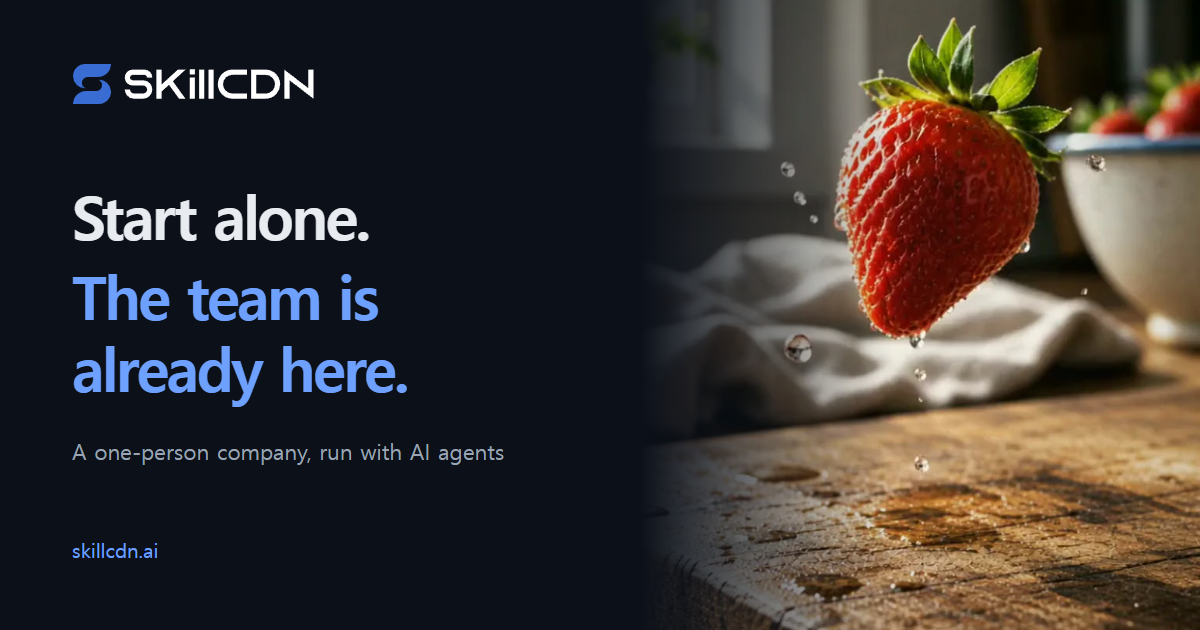
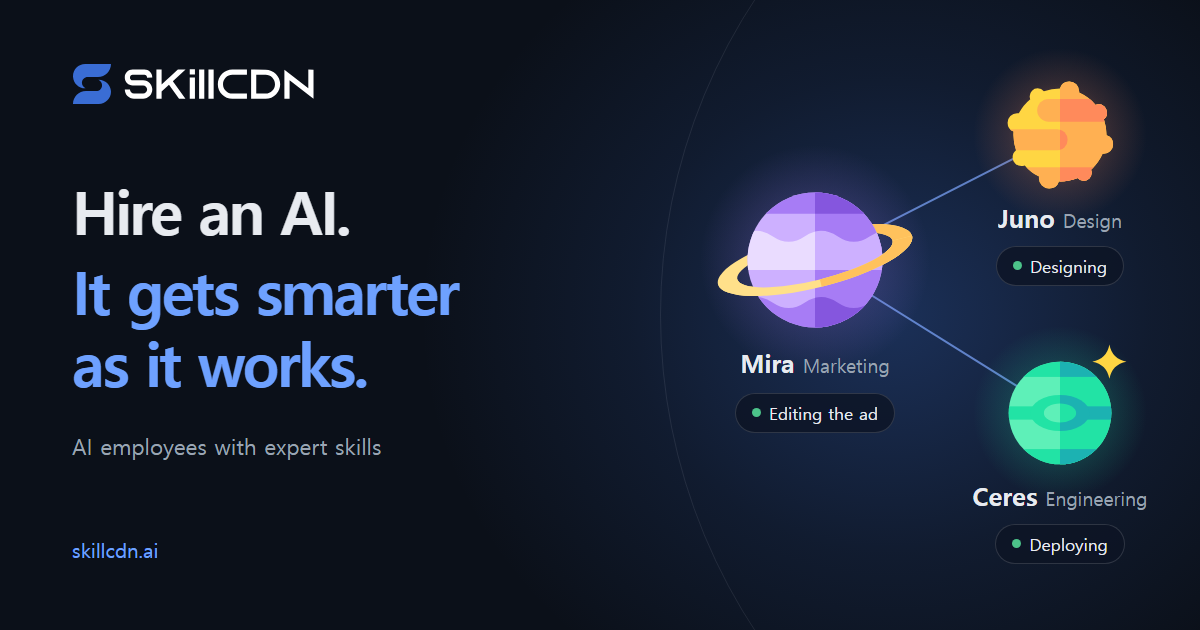
feat(web): show the AI employees on the social-preview card
The social-preview images showed the first showcase entry's poster, a
result that says nothing of what the front page now promises. The card
shows the words of the first screen beside the three AI employees of
its scene, each with its face, its name, its trade and what it is
doing, and both images are taken again from /dev/og.

diff --git a/apps/web/src/pages/og-card.module.css b/apps/web/src/pages/og-card.module.css
@@ -11,19 +11,154 @@
   background: var(--color-bg);
   color: var(--color-text);
 }
-/* The picture keeps to the right of the words, in either language, and fades in from the
-   background at its left edge, so that there is no seam between them and nothing shows through
-   the words. */
-.art {
+
+/* The team keeps to the right of the words, in either language: the three of the scene in the
+   room they work in, one light behind them all and a light of its own tone behind each. */
+.team {
   position: absolute;
   z-index: -1;
   inset: 0 0 0 auto;
   width: 560px;
   height: 630px;
-  object-fit: cover;
-  object-position: 30% center;
-  mask-image: linear-gradient(90deg, transparent, black 45%);
 }
+
+.team::before {
+  content: "";
+  position: absolute;
+  inset: -120px -160px -120px -220px;
+  background: radial-gradient(
+    closest-side,
+    color-mix(in srgb, var(--color-accent-solid) 34%, transparent),
+    color-mix(in srgb, var(--color-accent-solid) 12%, transparent) 55%,
+    transparent
+  );
+}
+
+/* A faint orbit through the room, as the scene has them. */
+.team::after {
+  content: "";
+  position: absolute;
+  top: -260px;
+  left: 20px;
+  width: 1150px;
+  height: 1150px;
+  border: 1px solid color-mix(in srgb, var(--color-text) 9%, transparent);
+  border-radius: 50%;
+}
+
+.links {
+  position: absolute;
+  inset: 0;
+  width: 560px;
+  height: 630px;
+  fill: none;
+  stroke: color-mix(in srgb, var(--agents-ocean-2) 70%, transparent);
+  stroke-width: 2;
+  stroke-linecap: round;
+}
+
+/* One of the three: its planet, its name and trade, and what it is doing. Placed by the middle
+   of its planet. */
+.agent {
+  position: absolute;
+  isolation: isolate;
+  display: grid;
+  justify-items: center;
+  translate: -50% 0;
+  white-space: nowrap;
+}
+
+.agent-0 {
+  --size: 250px;
+  top: 135px;
+  left: 175px;
+}
+
+.agent-1 {
+  --size: 190px;
+  top: 40px;
+  left: 420px;
+}
+
+.agent-2 {
+  --size: 190px;
+  top: 318px;
+  left: 420px;
+}
+
+.halo-violet {
+  --halo: var(--agents-violet-2);
+}
+
+.halo-sunset {
+  --halo: var(--agents-sunset-2);
+}
+
+.halo-mint {
+  --halo: var(--agents-mint-1);
+}
+
+.planet {
+  position: relative;
+  display: block;
+  width: var(--size);
+  height: var(--size);
+}
+
+/* The light of its own tone, behind the planet and behind its words. */
+.planet::before {
+  content: "";
+  position: absolute;
+  z-index: -1;
+  inset: 4%;
+  border-radius: 50%;
+  background: radial-gradient(
+    closest-side,
+    color-mix(in srgb, var(--halo) 46%, transparent),
+    color-mix(in srgb, var(--halo) 14%, transparent) 60%,
+    transparent
+  );
+}
+
+.planet > svg {
+  position: relative;
+}
+
+.who {
+  display: flex;
+  align-items: baseline;
+  gap: 8px;
+  /* The drawing leaves room around the planet for a ring; the words come up into it. */
+  margin-top: calc(var(--size) * -0.17);
+  font-size: 25px;
+  font-weight: 700;
+}
+
+.who span {
+  color: var(--color-text-muted);
+  font-size: 19px;
+  font-weight: 400;
+}
+
+.doing {
+  display: flex;
+  align-items: center;
+  gap: 8px;
+  margin-top: 8px;
+  padding: 5px 16px 6px;
+  border: 1px solid var(--agents-pill-edge);
+  border-radius: 999px;
+  background: var(--agents-pill);
+  font-size: 17px;
+}
+
+.doing i {
+  width: 9px;
+  height: 9px;
+  border-radius: 50%;
+  background: var(--color-success);
+}
+
 /* The lockup; the wordmark in the brand's white, the symbol in its own blue. It keeps its own
    width in the column, where a flex item would otherwise be stretched to the card's. */
 .brand {
@@ -33,26 +168,32 @@
   height: 40px;
   color: var(--color-wordmark);
 }
+
+/* The title and the line under it stand in the middle of the room between the lockup and the
+   address, level with the team beside them. */
 .title {
   max-width: 600px;
-  margin-top: 75px;
+  margin-top: auto;
   font-size: 60px;
   font-weight: 700;
   line-height: 1.2;
   letter-spacing: -2.7px;
   text-wrap: balance;
 }
+
 .title span {
   display: block;
   margin-top: 8px;
   color: var(--color-accent);
 }
+
 .tagline {
   margin-top: 30px;
   max-width: 520px;
   font-size: 22px;
   color: var(--color-text-muted);
 }
+
 .address {
   margin-top: auto;
   font-size: 20px;

diff --git a/apps/web/src/pages/og-card.tsx b/apps/web/src/pages/og-card.tsx
@@ -1,20 +1,66 @@
+import {
+  Planet,
+  type PlanetKind,
+  PlanetShapes,
+  type PlanetTone,
+} from "../components/agents-planet.js";
 import { BrandLogo } from "../components/brand.js";
+import { cx } from "../components/ui.js";
 import { useI18n } from "../i18n/index.js";
-import { DEFAULT_SHOWCASE_MEDIA, localizedPath } from "../site.js";
 import styles from "./og-card.module.css";
 
-// Development-only source for the 1200 x 630 social-preview images in public/og/. It shows the
-// first result of the build's own showcase; an operator's entry can bring its own picture for
-// link previews.
+/**
+ * The three the scene of the first screen hires, with the faces they have there (`LOOKS` in
+ * agents-stage.tsx), and which of the things each does in the scene it is doing on the card: all
+ * three at work at once, each on its own trade.
+ */
+const TEAM: readonly {
+  readonly kind: PlanetKind;
+  readonly tone: PlanetTone;
+  readonly doing: number;
+}[] = [
+  { kind: 0, tone: "violet", doing: 5 },
+  { kind: 1, tone: "sunset", doing: 4 },
+  { kind: 2, tone: "mint", doing: 6 },
+];
+
+// Development-only source for the 1200 x 630 social-preview images in public/og/. It shows what
+// the first screen promises: the AI employees of the scene, at work, in the words of the language
+// packs. An operator's showcase entry can bring its own picture for link previews.
 export function OgCard() {
-  const { t, language } = useI18n();
+  const { t } = useI18n();
+  const agents = t.landing.agents.scene.agents;
   return (
     <div className={styles.card}>
-      <img
-        className={styles.art}
-        src={localizedPath(DEFAULT_SHOWCASE_MEDIA.entries.ad.poster, language)}
-        alt=""
-      />
+      <PlanetShapes />
+      <div className={styles.team} aria-hidden="true">
+        {/* The first hands the work on to the other two, as in the scene. */}
+        <svg className={styles.links} viewBox="0 0 560 630" aria-hidden="true">
+          <path d="M175 260 420 135" />
+          <path d="M175 260 420 413" />
+        </svg>
+        {TEAM.map((look, index) => {
+          const agent = agents[index];
+          return agent === undefined ? null : (
+            <div
+              key={agent.handle}
+              className={cx(styles.agent, styles[`agent-${index}`], styles[`halo-${look.tone}`])}
+            >
+              <span className={styles.planet}>
+                <Planet kind={look.kind} tone={look.tone} />
+              </span>
+              <p className={styles.who}>
+                {agent.name}
+                <span>{agent.title}</span>
+              </p>
+              <p className={styles.doing}>
+                <i />
+                {agent.doing[look.doing]}
+              </p>
+            </div>
+          );
+        })}
+      </div>
       <BrandLogo className={styles.brand} />
       <p className={styles.title}>
         {t.landing.title}

diff --git a/apps/web/README.md b/apps/web/README.md
@@ -55,7 +55,7 @@ The integrated server's default port is **11188**. To serve the built UI there a
 | Document defaults (headings, links, focus ring) | [`src/styles/base.css`](src/styles/base.css). Scrolling is never animated: a page change lands at its top at once, and a return through history where it was. |
 | The ground of every page | The field of faint points under everything, strongest at the top and gone below the first screen: `.page::before` in [`src/components/layout.module.css`](src/components/layout.module.css), with its color, spacing and reach as tokens. One tiled gradient behind a mask that scrolls with the page, so it costs nothing on scroll. |
 | A building block (button, badge, callout, tabs, code block, address form) | `src/components/<name>.tsx` with its styles next to it in `<name>.module.css` |
-| The showcase on the front page | What the landing page shows first after the scene of the agent accounts is the operator's showcase, read from `GET /api/v1/showcase` and written through the admin API ([ADR-0028](../../docs/adr/0028-the-front-page-and-the-explorer-are-operator-content.md); how to write an entry is in [`deploy/README.md`](../../deploy/README.md#the-admin-api)). Until the operator writes one, the build's own entries stand: [`src/showcase.ts`](src/showcase.ts) makes them from the language packs and `DEFAULT_SHOWCASE_MEDIA` in [`src/site.ts`](src/site.ts), each a real result of a skill of the reference pack, made by an agent from the one sentence the card quotes: the short ad (for a fictional brand, so that it sells nothing real, in English in every language; a result with words in it may instead be cut per language, since the build's entries are made per language and a page shows the cut of its own, as an operator's entry is through its `cuts`), the business plan deck with its pitch video and the web page of a fictional bakery, their posters in `public/showcase/` with the result itself beside each (the ad as MP4 at 9:16; the deck as PDF, with a pitch video as MP4 at 16:9 in which a presenter pitches it to an audience with its slides on the screen behind her; the web page as a full-page WebP, with a clip of it scrolled at desktop width), and each clip once more as an animated AVIF (`<name>-animated.avif`, at the clip's own frame rate and a smaller size, encoded with ffmpeg's libaom) for a browser that will not play the video. Only results about fictional subjects are bundled, since the repository and the image are public: a result that shows a real company's product or pictures is an entry the operator writes. [`showcase-card.tsx`](src/components/showcase-card.tsx) renders one card per entry, read in the order the work happened: above the stage, whose work it is (`origin`, a pack's result or a builder's own case, the one warm pill on the page), what it came from (`credit`) and the quote as the title; the stage (a poster, or a clip that plays muted once on screen, with the same clip as an animated image where the video will not play, and the poster under reduced motion; a tall one stands whole over itself blurred); and under it the body, the tags as one line of facts of the deliverable, and the way out, to the pack of the skill that made the result (the repository of `address`, `showcasePackAddress`), which the whole card opens; the result itself (`link`) is not linked from the card. The entries lie by the shape of their results: a tall first entry, a phone's clip, stands as a column beside the rest, the clip filling its width, and the rest stand together no taller than it, the first of them across their two columns with its stage beside its words and the other two under it; a wide first entry lies across the row, its stage beside its words, with the rest in as many columns as fit; the stage's edges dissolve into the pane, so that no box is drawn round a result; on a phone the cards are a row to swipe through. The organizations named beside the showcase ([`organizations-strip.tsx`](src/components/organizations-strip.tsx)) come from the same answer, with `DEFAULT_ORGANIZATIONS` in `site.ts` and the mark in `public/organizations/` standing in until the operator writes a list; on a phone the strip rolls. The explorer has its own list and no card. Replacing a bundled result means replacing its poster and its result file, the words that describe it in both packs (`landing.showcase.entries`), and the social-preview images, which show the first entry's poster. |
+| The showcase on the front page | What the landing page shows first after the scene of the agent accounts is the operator's showcase, read from `GET /api/v1/showcase` and written through the admin API ([ADR-0028](../../docs/adr/0028-the-front-page-and-the-explorer-are-operator-content.md); how to write an entry is in [`deploy/README.md`](../../deploy/README.md#the-admin-api)). Until the operator writes one, the build's own entries stand: [`src/showcase.ts`](src/showcase.ts) makes them from the language packs and `DEFAULT_SHOWCASE_MEDIA` in [`src/site.ts`](src/site.ts), each a real result of a skill of the reference pack, made by an agent from the one sentence the card quotes: the short ad (for a fictional brand, so that it sells nothing real, in English in every language; a result with words in it may instead be cut per language, since the build's entries are made per language and a page shows the cut of its own, as an operator's entry is through its `cuts`), the business plan deck with its pitch video and the web page of a fictional bakery, their posters in `public/showcase/` with the result itself beside each (the ad as MP4 at 9:16; the deck as PDF, with a pitch video as MP4 at 16:9 in which a presenter pitches it to an audience with its slides on the screen behind her; the web page as a full-page WebP, with a clip of it scrolled at desktop width), and each clip once more as an animated AVIF (`<name>-animated.avif`, at the clip's own frame rate and a smaller size, encoded with ffmpeg's libaom) for a browser that will not play the video. Only results about fictional subjects are bundled, since the repository and the image are public: a result that shows a real company's product or pictures is an entry the operator writes. [`showcase-card.tsx`](src/components/showcase-card.tsx) renders one card per entry, read in the order the work happened: above the stage, whose work it is (`origin`, a pack's result or a builder's own case, the one warm pill on the page), what it came from (`credit`) and the quote as the title; the stage (a poster, or a clip that plays muted once on screen, with the same clip as an animated image where the video will not play, and the poster under reduced motion; a tall one stands whole over itself blurred); and under it the body, the tags as one line of facts of the deliverable, and the way out, to the pack of the skill that made the result (the repository of `address`, `showcasePackAddress`), which the whole card opens; the result itself (`link`) is not linked from the card. The entries lie by the shape of their results: a tall first entry, a phone's clip, stands as a column beside the rest, the clip filling its width, and the rest stand together no taller than it, the first of them across their two columns with its stage beside its words and the other two under it; a wide first entry lies across the row, its stage beside its words, with the rest in as many columns as fit; the stage's edges dissolve into the pane, so that no box is drawn round a result; on a phone the cards are a row to swipe through. The organizations named beside the showcase ([`organizations-strip.tsx`](src/components/organizations-strip.tsx)) come from the same answer, with `DEFAULT_ORGANIZATIONS` in `site.ts` and the mark in `public/organizations/` standing in until the operator writes a list; on a phone the strip rolls. The explorer has its own list and no card. Replacing a bundled result means replacing its poster and its result file, and the words that describe it in both packs (`landing.showcase.entries`). |
 | The agent accounts on the front page | [`agents-stage.tsx`](src/components/agents-stage.tsx) and its CSS place the parts of the scene, in units of the stage's own width (`--u`) and in two layouts: a wide screen's, the conversation and the board side by side, and a phone's, where they share one place and the one behind shows its head over the one in front, so that the whole scene is seen at once (`deck`); [`agents-score.ts`](src/components/agents-score.ts) is what each part does and when, in seconds of one pass, a pure function of where things stand on the stage ([ADR-0128](../../docs/adr/0128-the-front-page-shows-the-agent-accounts-as-a-scene-the-browser-plays.md)); [`agents-planet.tsx`](src/components/agents-planet.tsx) draws the planets, as the console draws an agent account's avatar. A part carries its name (`data-part`) and is hidden until the score is on it. Its stretch has a rest at either end (`REST`): a part that begins or ends with a jump is otherwise painted as it was before the jump by Firefox's compositor, which a screenshot of the page does not show and `windowUtils.startCompositionRecording` does. The hand is the pointer of the connection guides ([`pointer-shape.tsx`](src/components/pointer-shape.tsx)). The stage is measured as it comes on screen, again when its size changes and once the fonts are here. Its words are `landing.agents` of the language packs, one for every moment the score names, which a test checks. To look at one moment, pause the animations of the stage and set their `currentTime`. A few of the same planets float in the room beside the sections (`Floater` and `FLOATERS` in [`landing.tsx`](src/pages/landing.tsx), their places at the foot of its CSS): each motion is an HTML element of its own, the scroll's lift, the sway, the planet's bob and a moon's turn across and up, since the same motion on the drawing itself is the main thread's ([Gotchas](#gotchas)). |
 | The console on the front page | [`console-demo.tsx`](src/components/console-demo.tsx) and its CSS: the board of the reference console (skillcdn/console, [ADR-0047](../../docs/adr/0047-the-console-is-a-separate-repository-built-on-the-published-packages.md)), drawn here with its own light ground and its own tokens (`--console-*` in `tokens.css`, the console's own values), as the illustrated client windows keep theirs. Its tasks, its decision, its feed and the moments it plays are words of the language packs (`landing.console.window`), typed by `landing-en.ts`; `afterMoment` applies a moment to the board and a test checks every pack's. As the window comes into view a hand plays its moments once: it comes to a card, takes it and carries it to its column (`HAND` times each part; `landing` says where the card lands, at the top of the column, where `moved` then puts the task, and the board scrolls to a column it has to), a task arrives by itself, each with its line in the feed, at a reading pace and not under reduced motion. The hand and the card it carries move by animations the browser runs on its own (`Element.animate`), never by a frame of script. A press anywhere on the window ends the play, since the board is then the visitor's: a card can be dragged to another column with the pointer, the way the console's cards are (a mouse past a few pixels, a finger that rests), the card in hand following the pointer by a transform set on the element, since the pages carry no inline styles. A card at work shows the face of the agent of its trade (`WORKERS`), the faces the scene of the first screen hires them with. It talks to no console. The window is hidden from assistive technology; one paragraph says what it shows. The page remounts it per language, since the board's words become its state. |
 | Who is signed in | [`src/auth/session.tsx`](src/auth/session.tsx): one context for the whole app, asked from `GET /api/v1/me` once the page is up, and again when the browser brings a page back as it was left (its back-forward cache), since someone may have signed in or out since. Its states are `unknown` (what the server renders, and the browser until it has asked), `disabled` (nobody can sign in here: nothing about signing in is shown), `anonymous` and `user`. Anything that depends on a person reads `useSession()`; the server never renders for a person, so every page is one document for everyone. Whether signing in exists arrives as a meta tag the server writes. [`user-menu.tsx`](src/components/user-menu.tsx) is the header's end of it: the button that opens the sign-in dialog, or the person's picture with their pages behind it. |
@@ -73,7 +73,7 @@ The integrated server's default port is **11188**. To serve the built UI there a
 | Repository text in the visitor's language | [`src/i18n/repository-text.ts`](src/i18n/repository-text.ts): a skill's title and description, and a repository's name and description, from the `translations` their author wrote ([convention](../../docs/specs/skill-repo.md)), in the visitor's language when there is one and as written otherwise. Skill identity is its repository-root `SKILL.md` path. |
 | The brand | The path data lives in `@skillcdn/core` (`BRAND_SYMBOL_PATH`, `BRAND_WORDMARK_PATH`), and [`src/components/brand.tsx`](src/components/brand.tsx) draws it: `BrandSymbol` is the symbol alone, in its own blue wherever it stands; `BrandLogo` is the lockup, the wordmark in the colour of its place, which on these pages and on the social cards is the brand's own white (`--color-wordmark`, `#ffffff`, the white of the brand files) and not the text white. The pictures of the brand are the files of [`@skillcdn/brand`](../../packages/brand/README.md) ([ADR-0048](../../docs/adr/0048-the-brand-files-are-a-package-of-their-own-under-the-trademark-policy.md)), and the pages serve them at the addresses they always had: the icons `index.html` and `manifest.webmanifest` name at the root (`/favicon.svg`, `/favicon.ico`, `/apple-touch-icon.png`, `/icon-192.png`, `/icon-512.png`; the three a platform shows in its own chrome stand on the pages' own ground, the `background_color` of the manifest) and the rest under `/brand/` (`/brand/logo-black.png` is the one structured data names). [`dev/brand-files.ts`](dev/brand-files.ts) is the Vite plugin that answers them in development and copies them into the build, and [`dev/brand-files.test.ts`](dev/brand-files.test.ts) checks that every icon the page and the manifest link to is served, and that the tiles stand on the ground the manifest declares. |
 | The language list | [`language-switcher.tsx`](src/components/language-switcher.tsx): a native disclosure with real language links, saved preference, outside-click dismissal, and Escape returning focus. |
-| Social-preview images | `public/og/og-<language>.png`, 1200 x 630. Replace the files, or restyle `src/pages/og-card.tsx` and take new screenshots of `/dev/og?lang=en` and `/dev/og?lang=ko` in a 1200 x 630 window (a headless browser with `--screenshot` and `--window-size=1200,630` does; force the language, since the page otherwise follows the browser's). Retake them whenever the hero copy or the first entry's poster changes. The page of an address and a page of the documentation name a card the server draws instead (`/social/...`); `socialCard` in [`src/social.ts`](src/social.ts) and `docsSocialCard` in [`src/entry-server.tsx`](src/entry-server.tsx) write their words. |
+| Social-preview images | `public/og/og-<language>.png`, 1200 x 630. Replace the files, or restyle `src/pages/og-card.tsx` and take new screenshots of `/dev/og?lang=en` and `/dev/og?lang=ko` in a 1200 x 630 window (a headless browser with `--screenshot` and `--window-size=1200,630` does; force the language, since the page otherwise follows the browser's). The card shows the words of the first screen beside the three AI employees of its scene, each with its face, its name, its trade and what it is doing (`TEAM` in `og-card.tsx`, the words from `landing.agents.scene`). Retake them whenever the hero copy changes, or the names, trades or faces of the scene's agents. The page of an address and a page of the documentation name a card the server draws instead (`/social/...`); `socialCard` in [`src/social.ts`](src/social.ts) and `docsSocialCard` in [`src/entry-server.tsx`](src/entry-server.tsx) write their words. |
 | What machines read | [`src/seo/head.ts`](src/seo/head.ts): title, description, canonical and alternate URLs, the social-preview tags and the structured data (the site as one organization with its search as a search action, the application, the first clip of the showcase where there is one, and the questions; the page of a term as a page of results; a page of the documentation as an article with its breadcrumbs). The page of a term is offered to search engines once it has `SEARCH_INDEX_MIN_RESULTS` results, and says `noindex` otherwise. `renderLlmsTxt` in [`src/entry-server.tsx`](src/entry-server.tsx) writes `llms.txt` from the same words, with the documentation listed as Markdown, and `renderLlmsFullTxt` writes every page into `llms-full.txt`. The words themselves live in `meta` in the language packs; `meta.landing.about` is the one plain sentence that says what SkillCDN is. |
 
 Styles are CSS modules: a class is local to its component, so renaming or restyling one cannot break another. Breakpoints are `40rem`, `52rem` and `60rem`, and `64rem` and `80rem` on the documentation pages, for their second and third columns.

diff --git a/.changeset/social-card-shows-the-ai-employees.md b/.changeset/social-card-shows-the-ai-employees.md
@@ -1,0 +1,5 @@
+---
+"@skillcdn/web": patch
+---
+
+The social-preview images of the pages show the words of the first screen beside the three AI employees of its scene, each with its name, its trade and what it is doing, in place of a result of the showcase.
